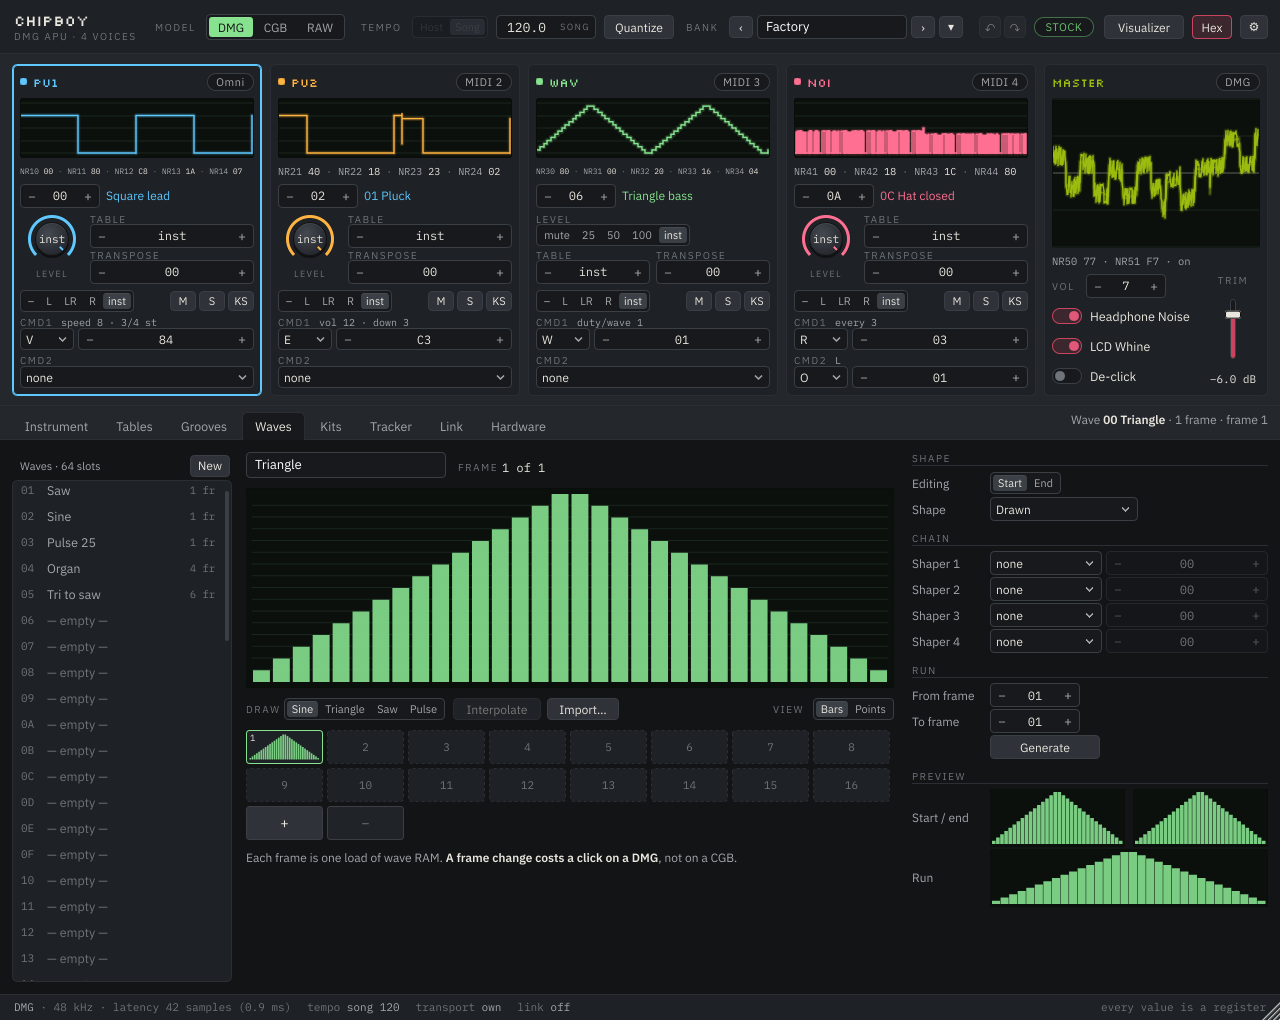
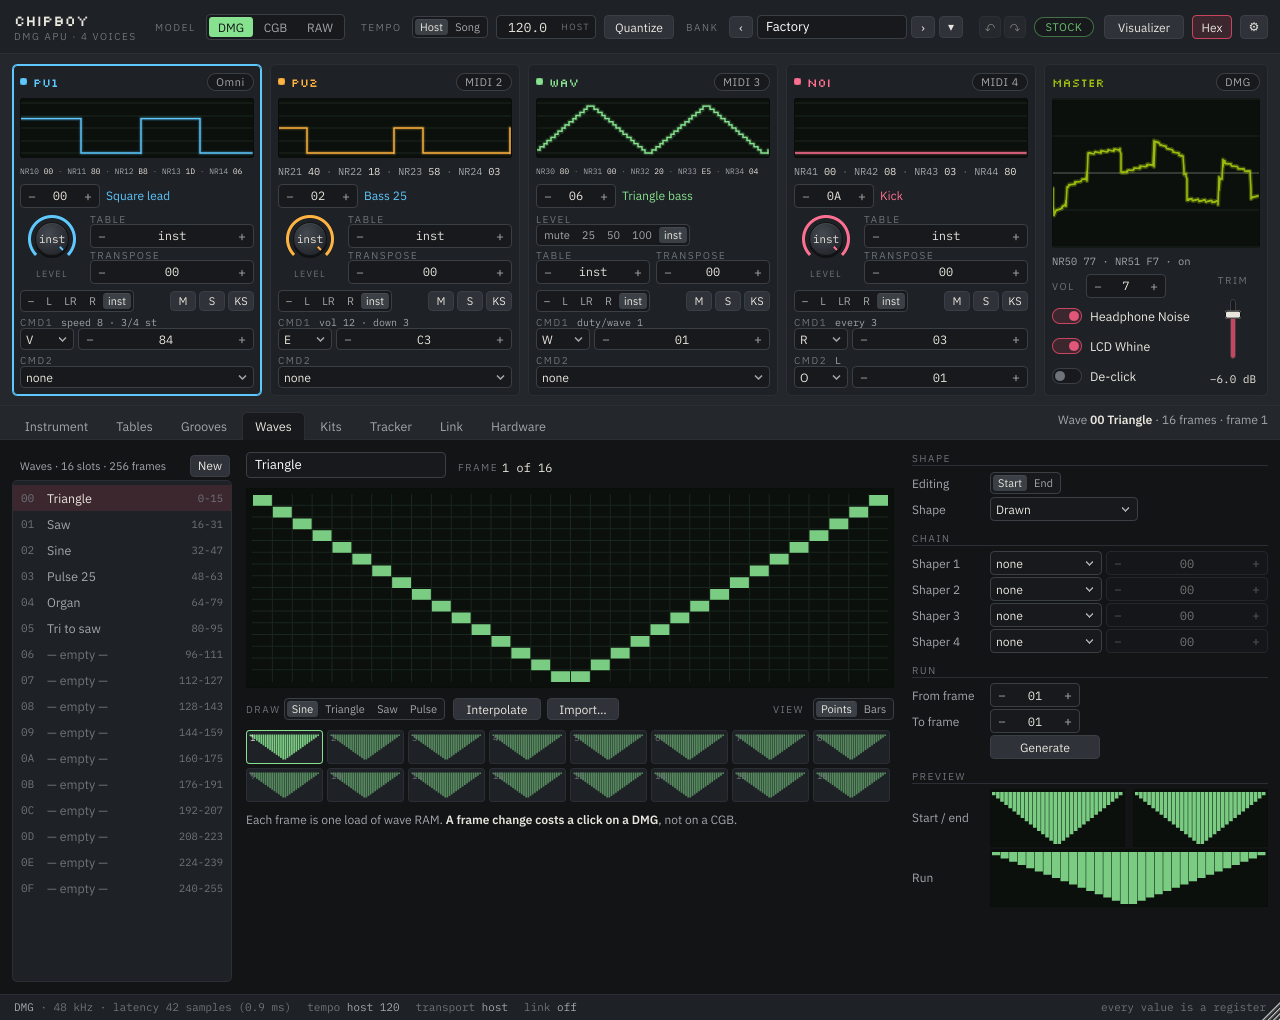
The Waves grid draws the output, and ChipBoy's DAC was already right
Section 107. Two things were asked for: that ChipBoy's DAC reflect a real
DMG/CGB DAC, RAW included, and that the Waves grid draw a frame the way
it sounds -- LSDj's way -- while still storing the raw bits.

The first was already true, and section 106 was wrong about it. That
claim came from reading Apu::outWave(), which hands the DAC a digital
level 0-15 and is not the DAC. The DAC is dacValue() in the renderer and
has always been -(level - 7.5) / 7.5: digital 0 the positive rail, 15 the
negative one.

Measured this time rather than read. The same square frame as section
106, rendered and sampled at known points in the cycle, gives nibble 0
positive and nibble F negative on the analog path (+0.739 / -1.415) and
on RAW (+0.988 / -1.080), which is the reference's +3772 / -3772. RAW
keeps the polarity and loses only the coupling droop, which is what RAW
is for. Tests/RenderTests.cpp pins both paths, and harness::renderScript
takes a bypassAnalog flag so RAW is testable at all -- it was not before.

So the audio needed no change and the display did. The Waves grid drew
level 15 at the top, which is the sample value rather than the output. It
now draws level 0 at the top and 15 at the bottom: the Points cell, the
Bars bar (hanging from the top now), the pointer's row, the frame strip's
thumbnails and the synth preview, with cellAt inverted to match so a
click still lands on the row under the pointer. The corner readout is
[…]

diff --git a/Source/plugin/ui/Grids.cpp b/Source/plugin/ui/Grids.cpp
@@ -2531,11 +2531,15 @@ struct WaveGrid::Impl {
     static juce::Rectangle<int> inner(const juce::Component& c) { return c.getLocalBounds().reduced(kPad); }
 
     /// The grid cell a point lands on, clamped into the 32 by 16.
+    /// Section 107: the grid is drawn the way the DAC puts the frame out, which
+    /// is the way LSDj's WAVE screen draws it -- sample **0 at the top**, 15 at
+    /// the bottom, because the DMG's DACs invert. So the row under the pointer
+    /// is the level straight off the y, not 15 less it.
     static void cellAt(const juce::Component& c, juce::Point<int> p, int& i, int& v)
     {
         const auto in = inner(c);
         i = juce::jlimit(0, 31, int(std::floor(float(p.x - in.getX()) / (float(in.getWidth()) / 32.0f))));
-        v = juce::jlimit(0, 15, 15 - int(std::floor(float(p.y - in.getY()) / (float(in.getHeight()) / 16.0f))));
+        v = juce::jlimit(0, 15, int(std::floor(float(p.y - in.getY()) / (float(in.getHeight()) / 16.0f))));
     }
 
     /// Sets one sample; drags interpolate between the previous and the new column.
@@ -2603,14 +2607,14 @@ void WaveGrid::paint(juce::Graphics& g)
     if (im.hoverI >= 0) {
         g.setColour(wav.withAlpha(0.10f));
         g.fillRect(float(in.getX()) + float(im.hoverI) * cellW, float(in.getY()), cellW, float(in.getHeight()));
-        g.fillRect(float(in.getX()), float(in.getBottom()) - float(im.hoverV + 1) * levelH, float(in.getWidth()), levelH);
+        g.fillRect(float(in.getX()), float(in.getY()) + float(im.hoverV) * levelH, float(in.getWidth()), levelH);
     }
     if (points) {
         // Each sample fills its grid box, the way LSDj's wave screen draws
         // them: one lit cell per column.
         for (int i = 0; i < 32; ++i) {
             const float x = float(in.getX()) + float(i) * cellW;
-            const float y = float(in.getBottom()) - (float(im.frame.s[size_t(i)]) + 1.0f) * levelH;
+            const float y = float(in.getY()) + float(im.frame.s[size_t(i)]) * levelH;
             g.setColour(i == im.hoverI ? wav : wav.withAlpha(0.9f));
             g.fillRect(x + 1.0f, y + 1.0f, cellW - 1.0f, levelH - 1.0f);
         }
@@ -2618,13 +2622,16 @@ void WaveGrid::paint(juce::Graphics& g)
         const float colW = (float(in.getWidth()) - 31.0f) / 32.0f;
         for (int i = 0; i < 32; ++i) {
             const float x = float(in.getX()) + float(i) * (colW + 1.0f);
+            // Section 107: the bar hangs from the top, because level 15 is the
+            // bottom of the output and level 0 the top of it.
             const float h = float(im.frame.s[size_t(i)] + 1) / 16.0f * float(in.getHeight());
             g.setColour(i == im.hoverI ? wav : wav.withAlpha(0.9f));
-            g.fillRect(x + 1.0f, float(in.getBottom()) - h, colW - 2.0f, h);
+            g.fillRect(x + 1.0f, float(in.getY()), colW - 2.0f, h);
         }
     }
     // The coordinates, the way LSDj's wave screen shows them: the sample
-    // under the pointer and its level, in a corner, out of the way.
+    // under the pointer and its level, in a corner, out of the way. The number
+    // is the **stored** level, 0-15, whichever way up the grid draws it.
     if (im.hoverI >= 0) {
         const juce::String text = "sample " + ValueFormat::number(im.hoverI) + "  level " + ValueFormat::number(im.hoverV)
                                 + "  (" + ValueFormat::number(im.frame.s[size_t(im.hoverI)]) + ")";

diff --git a/Tests/RenderTests.cpp b/Tests/RenderTests.cpp
@@ -176,3 +176,48 @@ TEST_CASE("golden render", "[render]")
     INFO("largest difference " << maxDiff << " at interleaved index " << where);
     CHECK(maxDiff < 2e-5);
 }
+
+TEST_CASE("the DAC inverts, on the analog path and on RAW alike", "[render][dac]")
+{
+    // Section 107. The DMG's DACs invert -- a larger digital level is a *lower*
+    // output -- measured on SameBoy with `lsdjref_trace --wave-probe`: a square
+    // wave frame renders the nibble 0 at +3772 and the nibble F at -3772, and a
+    // 12.5 % duty pulse inverts the same way, so it is one convention across the
+    // chip. ChipBoy's `dacValue()` does it too; this pins that end to end, and
+    // pins that RAW keeps the same polarity rather than only the same numbers.
+    using chipboy::harness::Write;
+    std::vector<Write> s;
+    uint64_t c = 0;
+    auto w = [&](uint16_t a, uint8_t v) { s.push_back({ c, a, v }); c += 8; };
+    w(0xFF26, 0x80); w(0xFF24, 0x77); w(0xFF25, 0xFF);
+    w(0xFF1A, 0x00);                                       // the DAC off, so wave RAM takes writes
+    for (int k = 0; k < 16; ++k) w(uint16_t(0xFF30 + k), k < 8 ? 0x00 : 0xFF);
+    w(0xFF1A, 0x80); w(0xFF1C, 0x20); w(0xFF1D, 0x00);     // DAC on, level 100 %, the lowest period
+    const uint64_t trig = c;
+    w(0xFF1E, 0x80);
+
+    const uint64_t frames = 48000 * 20 / 100;
+    Renderer probe; probe.prepare(48000.0, AnalogModel::dmg());
+    const auto analog = renderScript(s, AnalogModel::dmg(), 48000.0, frames, [](uint64_t) { return 256; }, false);
+    const auto raw = renderScript(s, AnalogModel::dmg(), 48000.0, frames, [](uint64_t) { return 256; }, false,
+                                  nullptr, nullptr, true);
+    // A sample is 4096 cycles at period 0; sample 1 sounds first (section 106),
+    // so samples 1-15 are the nibble 0 and 16-31 the nibble F.
+    const double perFrame = double(chipboy::kCpuHz) / 48000.0;
+    const size_t lat = size_t(probe.latencyFrames());
+    auto at = [&](double sampleNo) { return lat + size_t((double(trig) + sampleNo * 4096.0) / perFrame); };
+    for (double n : { 2.0, 8.0, 14.0 }) {
+        INFO("sample " << n << ", the nibble 0");
+        CHECK(analog[at(n) * 2] > 0.05f);
+        CHECK(raw[at(n) * 2] > 0.05f);
+    }
+    for (double n : { 18.0, 24.0, 30.0 }) {
+        INFO("sample " << n << ", the nibble F");
+        CHECK(analog[at(n) * 2] < -0.05f);
+        CHECK(raw[at(n) * 2] < -0.05f);
+    }
+    // RAW has no coupling to droop, so its square stays square: the two halves
+    // are the rails, not a decaying step.
+    CHECK(raw[at(2.0) * 2] > 0.9f);
+    CHECK(raw[at(30.0) * 2] < -0.9f);
+}

diff --git a/Source/plugin/main/panels/WavesPanel.cpp b/Source/plugin/main/panels/WavesPanel.cpp
@@ -38,9 +38,11 @@ void paintFrame(Graphics& g, Rectangle<int> r, const bank::Frame& f, Colour trac
     g.fillRect(r);
     const float cw = float(r.getWidth() - 4) / 32.0f;
     g.setColour(trace);
+    // Section 107: hanging from the top, like the grid and like the output --
+    // level 0 is the positive rail, 15 the negative one.
     for (int i = 0; i < 32; ++i) {
         const float h = float(r.getHeight() - 6) * float(f.s[size_t(i)] + 1) / 16.0f;
-        g.fillRect(float(r.getX()) + 2.0f + cw * float(i), float(r.getBottom()) - 3.0f - h, std::max(1.0f, cw - 0.5f), h);
+        g.fillRect(float(r.getX()) + 2.0f + cw * float(i), float(r.getY()) + 3.0f, std::max(1.0f, cw - 0.5f), h);
     }
     g.setColour(colours::scopeBorder);
     g.drawRect(r, 1);
@@ -85,7 +87,7 @@ public:
                 const float cw = (r.getWidth() - 6.0f) / 32.0f;
                 for (int i = 0; i < 32; ++i) {
                     const float h = (r.getHeight() - 8.0f) * (f.s[size_t(i)] + 1) / 16.0f;
-                    g.fillRect(r.getX() + 3.0f + cw * float(i), r.getBottom() - 4.0f - h, std::max(1.0f, cw - 0.5f), h);
+                    g.fillRect(r.getX() + 3.0f + cw * float(i), r.getY() + 4.0f, std::max(1.0f, cw - 0.5f), h);
                 }
                 // The frame's number in its corner, so the strip reads as the run
                 // it is and From / To can be read off it (section 36).
@@ -286,7 +288,8 @@ struct WavesPanel::SynthWidgets {
 
 WavesPanel::WavesPanel(ChipBoyProcessor& p)
     : EditorPanel(p),
-      listTitle_("Waves" + middot() + "64 slots", Fonts::sans(11.0f), colours::textMute),
+      listTitle_("Waves" + middot() + String(bank::kWaveSlots) + " slots" + middot() + String(bank::kWaveFrames) + " frames",
+                 Fonts::sans(11.0f), colours::textMute),
       newBtn_("New"),
       frameLabel_("Frame", Fonts::caption(10.0f), colours::textDim),
       frameText_({}, Fonts::mono(12.0f), colours::text),

diff --git a/Source/tools/harness/Script.h b/Source/tools/harness/Script.h
@@ -23,11 +23,14 @@ struct Write {
 /// blocks whose sizes come from `blockSize(blockIndex)`. Returns interleaved
 /// stereo. Also returns the APU's complete event streams through `events`
 /// and `mix` when those pointers are given, for the reference path.
+/// `bypassAnalog` is RAW (section 107): the plain digital mix through the same
+/// DAC, so the polarity can be checked on both paths.
 std::vector<float> renderScript(const std::vector<Write>& script, const AnalogModel& model,
                                 double sampleRate, uint64_t frames,
                                 const std::function<int(uint64_t)>& blockSize, bool noise,
                                 std::vector<ApuEvent>* events = nullptr,
-                                std::vector<MixEvent>* mix = nullptr);
+                                std::vector<MixEvent>* mix = nullptr,
+                                bool bypassAnalog = false);
 
 /// A dense, deterministic script exercising all four channels, DAC toggles,
 /// mixer changes and the noise channel at its fastest -- the test material.

diff --git a/Source/tools/harness/Script.cpp b/Source/tools/harness/Script.cpp
@@ -7,11 +7,13 @@ namespace chipboy::harness {
 std::vector<float> renderScript(const std::vector<Write>& script, const AnalogModel& model,
                                 double sampleRate, uint64_t frames,
                                 const std::function<int(uint64_t)>& blockSize, bool noise,
-                                std::vector<ApuEvent>* events, std::vector<MixEvent>* mix)
+                                std::vector<ApuEvent>* events, std::vector<MixEvent>* mix,
+                                bool bypassAnalog)
 {
     Apu apu;
     render::Renderer r;
     r.prepare(sampleRate, model, 8192);
+    if (bypassAnalog) r.setModel(model, true);
     // The harness's one switch is the whole noise floor: the hiss and the
     // frame hum, and the display's line, which the plugin splits in two
     // (docs/COMMANDS_AND_TEMPO.md section 21).

diff --git a/docs/COMMANDS_AND_TEMPO.md b/docs/COMMANDS_AND_TEMPO.md
@@ -3013,10 +3013,12 @@ It is not the wave channel's own quirk. The same probe reports PU1's duty positi
 duty note gives -4080 while the duty bit is 1 against +4080 while it is 0 -- **the pulse inverts
 too**. So it is one convention across the chip, not a relationship between channels.
 
-**ChipBoy is non-inverting, on every channel alike** (`Apu::outWave` returns the nibble,
-`outPulse` the volume). Against SameBoy that is one global sign on the whole mix, which cancels and
-sums identically and is inaudible. Flipping it would invert every golden file and the analog
-stage's -122 dB null for no audible gain, so it stays, recorded here rather than fixed.
+~~**ChipBoy is non-inverting, on every channel alike**~~ -- **wrong, and corrected in §107.** That
+read `Apu::outWave`, which returns the *digital* level the DAC is fed, and stopped there. The DAC
+is in the renderer, and it already inverts: `dacValue(level) = -(level - 7.5) / 7.5`, digital 0 the
+positive rail and 15 the negative one. §107 measures the rendered output and finds ChipBoy's
+polarity is the reference's on both the analog path and RAW. Nothing about the audio needed
+changing; what did was the picture.
 
 **The order.** §104 also repeated the user's reading that the frame is shifted by one with the last
 point wrapped to the front -- and it is, in the sound. A trigger puts the wave position at 0 and
@@ -3030,3 +3032,36 @@ samples in -- and every 131072 cycles after. **The two agree.** `Tests/ApuTests.
 So LSDj's WAVE screen draws what you hear, in the order you hear it, the way the DAC puts it out.
 ChipBoy's grid draws the sample values as stored. Both are right about different things, and
 whether the grid should switch conventions to sit beside LSDj's is still a UI decision for the user.
+
+## 107. ChipBoy's DAC already inverts; it is the Waves grid that was upside down
+
+§106 measured the DMG's DACs inverting and then said ChipBoy's did not. It does. The claim came
+from reading `Apu::outWave()`, which hands the DAC a digital level 0-15 and is not the DAC; the DAC
+is `dacValue()` in the renderer, and it has always been `-(level - 7.5) / 7.5` with a comment
+saying so. Measured this time instead of read -- the same square frame as §106, rendered, sampled
+at known points in the cycle:
+
+| | sample 2 | sample 8 | sample 14 | sample 18 | sample 24 | sample 30 |
+|---|---|---|---|---|---|---|
+| the nibble | `0` | `0` | `0` | `F` | `F` | `F` |
+| ChipBoy, analog | +0.739 | +0.297 | +0.120 | -1.415 | -0.568 | -0.229 |
+| ChipBoy, **RAW** | +0.988 | +0.952 | +0.918 | -1.080 | -1.041 | -1.004 |
+
+Nibble `0` positive, nibble `F` negative, on both paths -- SameBoy's +3772 / -3772. RAW keeps the
+polarity and only loses the coupling that makes the analog path droop across a half cycle, which is
+what RAW is for. `Tests/RenderTests.cpp` pins it, and `renderScript` takes a `bypassAnalog` flag so
+RAW is testable at all.
+
+**So the audio was already right and the display was not.** ChipBoy's Waves grid drew level 15 at
+the top, which is the sample value, not the output. It now draws the way the DAC puts it out and the
+way LSDj's WAVE screen draws it: **level 0 at the top, level 15 at the bottom.** The Points view's
+cell, the Bars view's bar (it hangs from the top now), the pointer's row, the frame strip's
+thumbnails and the synth preview all follow, and `cellAt` follows so a click still lands on the row
+under the pointer. The corner readout is unchanged and still names the **stored** level, 0-15: the
+bits are the bits, and only the drawing turned over.
+
+The one-sample rotation of §106 is **not** applied to the grid. It is a trigger transient -- the
+first cycle of a note starts at sample 1, every cycle after it runs 0 to 31 like any other -- so
+drawing it would be a phase choice, not the output, and it would make column 0 edit sample 1. The
+grid stays honest about which sample is which. If a pixel-exact LSDj view is wanted later it is one
+index rotation in the same three places.

diff --git a/CHANGES.md b/CHANGES.md
@@ -26,6 +26,33 @@ intended product rather than a progress report.
 
 ## Spec revisions
 
+### 2026-09-11 — The Waves grid draws the output, and §106's claim about ChipBoy's DAC is corrected
+
+`docs/COMMANDS_AND_TEMPO.md` §107. The user asked for two things: that ChipBoy's DAC reflect a real
+DMG/CGB DAC, RAW included, and that the Waves grid draw the frame the way it actually sounds, the
+way LSDj does, while still storing the raw bits. The first turned out to be **already true** and
+§106 to be **wrong about it**: that claim came from reading `Apu::outWave()`, which hands the DAC a
+digital level 0-15 and is not the DAC. The DAC is `dacValue()` in the renderer and has always been
+`-(level - 7.5) / 7.5` -- digital 0 the positive rail, 15 the negative one.
+
+Measured this time rather than read. The same square frame, rendered and sampled at known points in
+the cycle, gives nibble `0` positive and nibble `F` negative on the analog path (+0.739 / -1.415)
+and on **RAW** (+0.988 / -1.080), matching SameBoy's +3772 / -3772. RAW keeps the polarity and only
+loses the coupling droop, which is what RAW is for. `Tests/RenderTests.cpp` pins both paths, and
+`harness::renderScript` gains a `bypassAnalog` flag so RAW is testable at all -- it was not before.
+
+So the audio needed no change and the **display** did. The Waves grid drew level 15 at the top,
+which is the sample value rather than the output. It now draws level **0 at the top** and 15 at the
+bottom: the Points cell, the Bars bar (hanging from the top now), the pointer's row, the frame
+strip's thumbnails and the synth preview, with `cellAt` inverted to match so a click still lands on
+the row under the pointer. The corner readout is unchanged and still names the stored level 0-15 --
+the bits are stored exactly as before and only the drawing turned over.
+
+**Not applied:** §106's one-sample rotation. It is a trigger transient -- the first cycle of a note
+begins at sample 1, every cycle after runs 0 to 31 -- so drawing it would be a phase choice rather
+than the output, and it would make column 0 edit sample 1. The grid stays honest about which sample
+is which. A pixel-exact LSDj view is one index rotation in the same three places if it is wanted.
+
 ### 2026-09-11 — §105 withdrawn, and the DMG's DACs measured
 
 `docs/COMMANDS_AND_TEMPO.md` §105 claimed that some songs' synths are rendered by LSDj as they

diff --git a/docs/HANDOFF.md b/docs/HANDOFF.md
@@ -432,7 +432,7 @@ design-log section the change touches. Update this file at the end of every chan
 - The LSDj ROM is the user's own, at `/root/lsdj/lsdj9_2_J.gb` on the build container
   only; `*.gb`/`*.sav` are git-ignored.
 
-- Round 23 (§103-§106): **the wave bank is one flat table**, the user's call between the two shapes
+- Round 23 (§103-§107): **the wave bank is one flat table**, the user's call between the two shapes
   §100 left open -- wave slots laid out in synth order with the driver carrying between them,
   rather than one 256-frame wave. `kWaveSlots` is **16**, a slot is **always `kMaxFrames`**, and a
   frame jump moves the flat index `(slot - 1) * 16 + frame`, wrapping at `kWaveFrames` = 256: past
@@ -466,6 +466,15 @@ design-log section the change touches. Update this file at the end of every chan
   the two differ by one global sign -- inaudible, and left alone rather than inverting every golden
   file. The one-sample shift is real and both sides agree on it: a trigger sounds **sample 1** first
   and sample 0 a whole cycle later. `Tests/ApuTests.cpp` pins both.
+  §107 corrects §106's second half. **ChipBoy's DAC already inverts** -- `dacValue()` in the
+  renderer is `-(level - 7.5) / 7.5` and always has been; §106 read `Apu::outWave()`, which is the
+  digital level the DAC is *fed*, and stopped there. Rendered and measured, ChipBoy gives nibble `0`
+  positive and nibble `F` negative on the analog path and on **RAW** alike, which is the reference's
+  polarity. So nothing about the audio changed; what changed is the **Waves grid**, which drew level
+  15 at the top -- the sample value, not the output -- and now draws level 0 at the top like the DAC
+  and like LSDj. The stored bits are untouched and the corner readout still names the stored level.
+  §106's one-sample rotation is deliberately **not** applied to the grid: it is a trigger transient,
+  so drawing it would be a phase choice and would make column 0 edit sample 1.
 - Round 22 (§102): **a phrase's `H` loops**. `H x y` with x > 0 hops inside the phrase x times and
   the step carrying it stays silent on a hopping pass; the groove walks with the play order, not
   with the step number, both measured. §80 had called this engine work the Player could not do,
